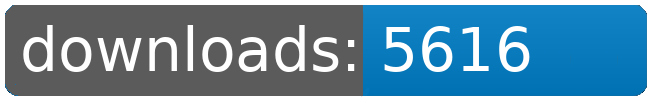
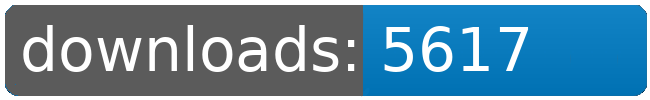
dl log written

Changed region(s): [[0.7692, 0.24, 0.8308, 0.72]]

diff --git a/README.md b/README.md
@@ -43,8 +43,8 @@
 		<td>5555</td>
 		<td>5576</td>
 		<td>5600</td>
-		<td>5616</td>
-		<td>+ 16</td>
+		<td>5617</td>
+		<td>+ 17</td>
 	</tr>
 	<tr>
 		<td>Jaws</td>
@@ -109,8 +109,8 @@
 		<td></td>
 		<td></td>
 		<td></td>
-		<td>37773</td>
-		<td>117</td>
+		<td>37774</td>
+		<td>118</td>
 	</tr>
 </table>
 </sub></sup>
@@ -135,8 +135,8 @@
 		<td>5555</td>
 		<td>5576</td>
 		<td>5600</td>
-		<td>5616</td>
-		<td>+ 16</td>
+		<td>5617</td>
+		<td>+ 17</td>
 	</tr>
 	<tr>
 		<td>Louise.Conglomerate.Shipyards</td>
@@ -223,8 +223,8 @@
 		<td></td>
 		<td></td>
 		<td></td>
-		<td>37773</td>
-		<td>117</td>
+		<td>37774</td>
+		<td>118</td>
 	</tr>
 </table>
 </sub></sup>
